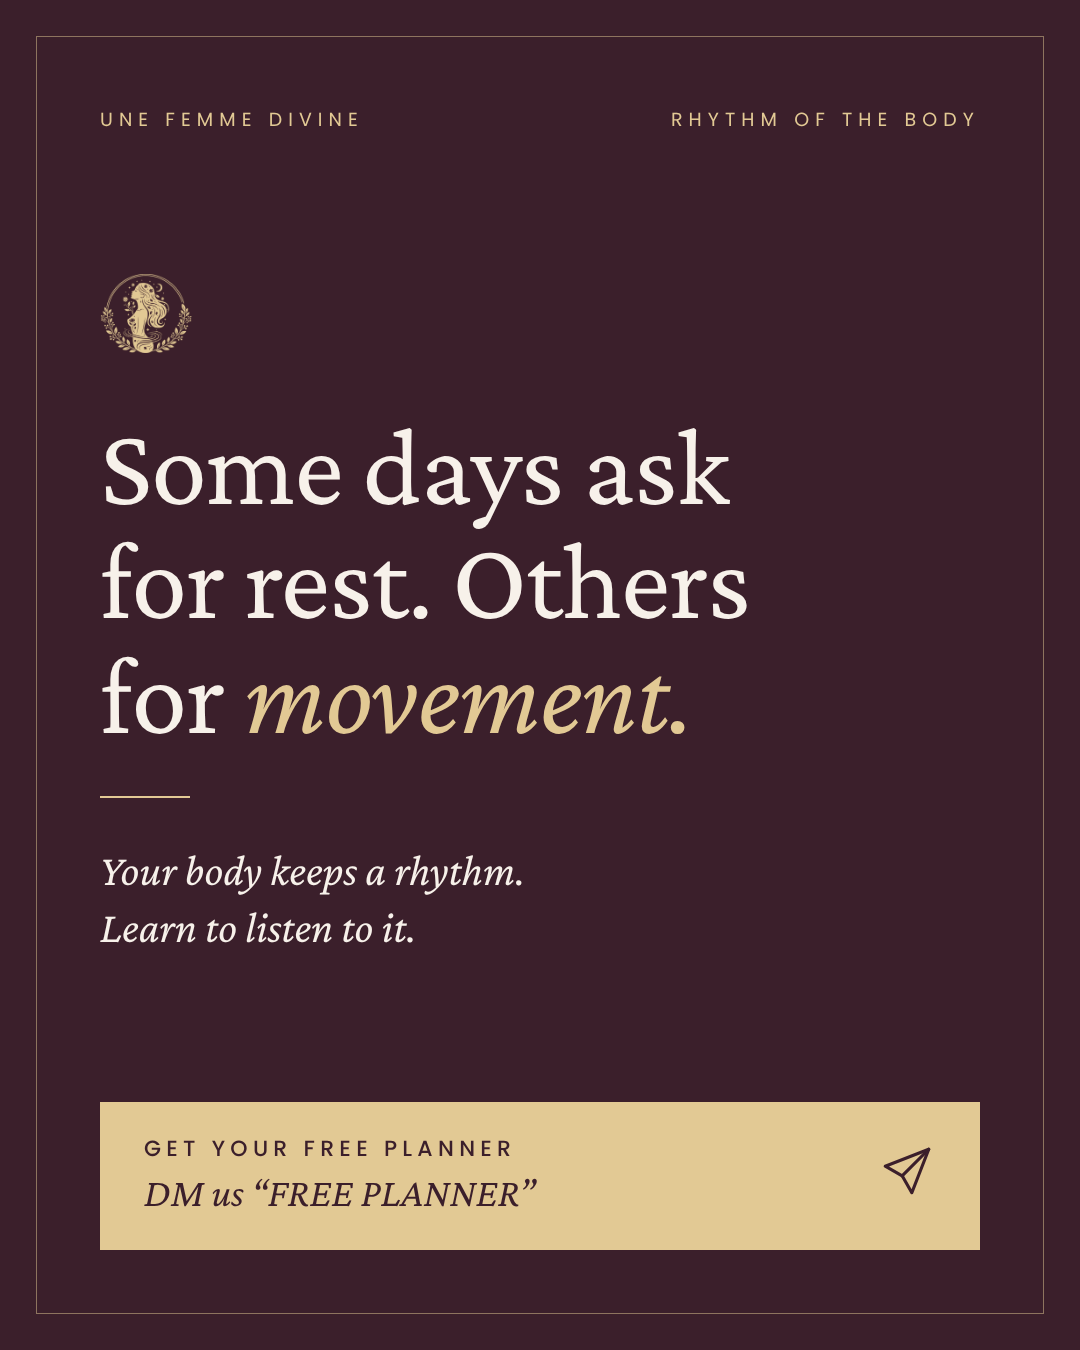
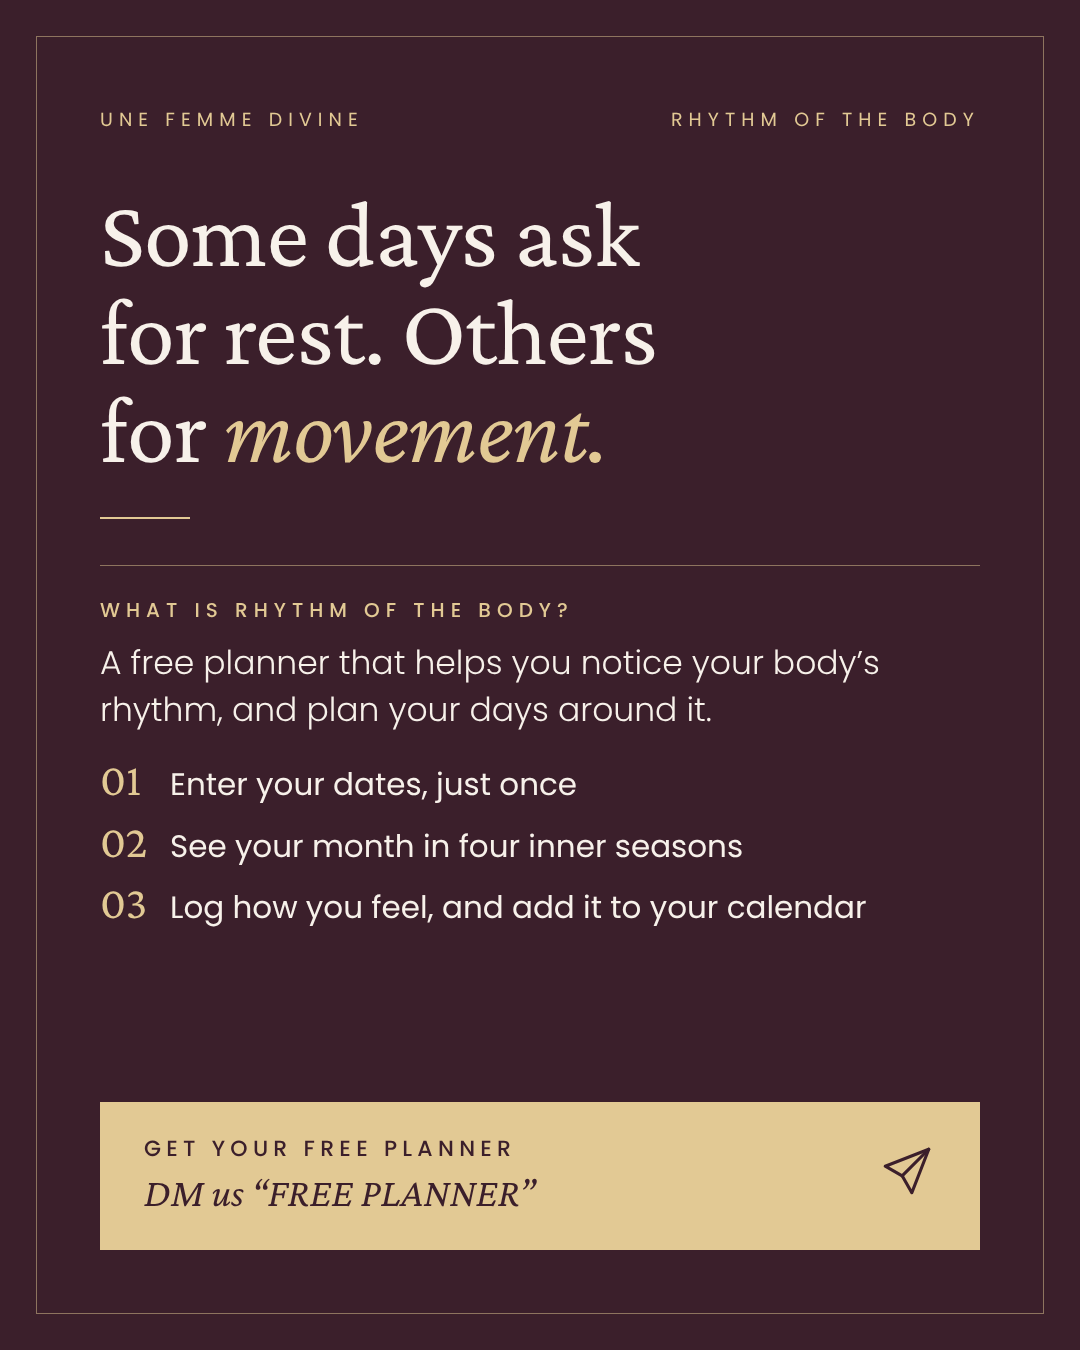
Posts: explain what the planner is, then the call to action
Claude-Session: https://claude.ai/code/session_0135nCpy4YhZtCCbvR9znkRH

Changed region(s): [[0.0917, 0.1556, 0.7944, 0.5911], [0.0917, 0.6222, 0.7944, 0.7156]]

diff --git a/guides/social/posts.html b/guides/social/posts.html
@@ -5,7 +5,7 @@
 <title>Rhythm of the Body: Instagram posts</title>
 <link rel="stylesheet" href="https://fonts.googleapis.com/css2?family=Crimson+Pro:ital,wght@0,400;0,500;1,400;1,500&family=Poppins:wght@300;400;500&display=swap">
 <style>
-:root { --aub: #3B1F2B; --aub2: #4A2A39; --cream: #F7F1EA; --sand: #EFE4D6; --champ: #E2C994; --gold: #B8975A; --bronze: #7B5C47; --rose: #D8A7A0; --mauve: #B79AA6;
+:root { --aub: #3B1F2B; --cream: #F7F1EA; --sand: #EFE4D6; --champ: #E2C994; --gold: #B8975A; --bronze: #7B5C47; --rose: #D8A7A0; --mauve: #B79AA6;
   --serif: 'Crimson Pro', Georgia, serif; --sans: 'Poppins', system-ui, sans-serif; }
 * { box-sizing: border-box; }
 body { margin: 0; background: #888; display: flex; flex-direction: column; gap: 40px; align-items: center; padding: 40px; }
@@ -15,31 +15,35 @@ body { margin: 0; background: #888; display: flex; flex-direction: column; gap: 
 .cream.frame::before, .sand.frame::before { border-color: rgba(184, 151, 90, .6); }
 .top { display: flex; justify-content: space-between; font: 400 19px/1 var(--sans); letter-spacing: .32em; text-transform: uppercase; color: var(--bronze); }
 .dark .top { color: var(--champ); }
-h1 { font: 400 112px/1.02 var(--serif); margin: 0; letter-spacing: -.01em; }
+h1 { font: 400 96px/1.02 var(--serif); margin: 0; letter-spacing: -.01em; }
 h1 i { color: var(--bronze); } .dark h1 i { color: var(--champ); }
-.sub { font: italic 400 44px/1.3 var(--serif); margin: 0; }
-.rule { width: 90px; height: 2px; background: var(--gold); margin: 44px 0; } .dark .rule { background: var(--champ); }
-.lbl { font: 400 20px/1.4 var(--sans); letter-spacing: .3em; text-transform: uppercase; color: var(--bronze); margin: 0 0 20px; } .dark .lbl { color: var(--champ); }
-.body { flex: 1; display: flex; flex-direction: column; justify-content: center; }
+.sub { font: italic 400 40px/1.3 var(--serif); margin: 0; }
+.rule { width: 90px; height: 2px; background: var(--gold); margin: 38px 0; } .dark .rule { background: var(--champ); }
+.lbl { font: 500 20px/1.4 var(--sans); letter-spacing: .3em; text-transform: uppercase; color: var(--bronze); margin: 0 0 16px; } .dark .lbl { color: var(--champ); }
+.body { flex: 1; display: flex; flex-direction: column; justify-content: center; padding-bottom: 44px; }
 .cta { background: var(--champ); color: var(--aub); padding: 34px 44px; display: flex; align-items: center; justify-content: space-between; gap: 30px; }
-.dark .cta { background: var(--champ); }
 .cream .cta, .sand .cta { background: var(--aub); color: var(--cream); }
 .cta b { display: block; font: 500 22px/1.2 var(--sans); letter-spacing: .24em; text-transform: uppercase; margin-bottom: 8px; }
 .cta span { font: italic 400 40px/1.15 var(--serif); }
 .cta .arrow { font: 400 54px/1 var(--serif); }
 .cream .cta .arrow, .sand .cta .arrow { color: var(--champ); }
-.mark { width: 92px; }
-.seasons { display: grid; grid-template-columns: 1fr 1fr; gap: 20px; margin-top: 10px; }
-.seasons div { padding: 38px 36px; min-height: 230px; display: flex; flex-direction: column; justify-content: flex-end; }
-.seasons b { font: 400 62px/1 var(--serif); font-style: italic; }
-.seasons span { font: 400 19px/1.5 var(--sans); letter-spacing: .24em; text-transform: uppercase; margin-top: 10px; }
-.s0 { background: #4A2A39; color: var(--cream); } .s1 { background: var(--champ); } .s2 { background: var(--rose); } .s3 { background: var(--mauve); }
-.cal { background: rgba(247, 241, 234, .06); border: 1px solid rgba(226, 201, 148, .3); padding: 28px 30px; margin-top: 4px; }
-.cal .mo { font: italic 400 46px/1 var(--serif); color: var(--cream); margin-bottom: 22px; display: flex; justify-content: space-between; align-items: baseline; }
+
+/* what the planner is */
+.how { border-top: 1.5px solid rgba(184, 151, 90, .7); padding-top: 30px; margin-top: 8px; }
+.dark .how { border-top-color: rgba(226, 201, 148, .5); }
+.how .intro { font: 300 33px/1.42 var(--sans); margin: 0 0 24px; max-width: 880px; }
+.how ol { list-style: none; margin: 0; padding: 0; display: grid; gap: 14px; }
+.how li { display: grid; grid-template-columns: 70px 1fr; align-items: baseline; font: 400 31px/1.3 var(--sans); }
+.how li b { font: 400 46px/1 var(--serif); color: var(--gold); } .dark .how li b { color: var(--champ); }
+.how.cols ol { grid-template-columns: repeat(3, 1fr); gap: 22px; }
+.how.cols li { grid-template-columns: 1fr; gap: 6px; font-size: 28px; }
+
+.cal { background: rgba(247, 241, 234, .06); border: 1px solid rgba(226, 201, 148, .3); padding: 20px 26px; margin: 0 0 22px; }
+.cal .mo { font: italic 400 40px/1 var(--serif); color: var(--cream); margin-bottom: 16px; display: flex; justify-content: space-between; align-items: baseline; }
 .cal .mo small { font: 400 17px var(--sans); letter-spacing: .26em; text-transform: uppercase; color: var(--champ); font-style: normal; }
-.grid { display: grid; grid-template-columns: repeat(7, 1fr); gap: 8px; }
-.grid i { aspect-ratio: 1.35; display: grid; place-items: center; font: 400 26px var(--sans); font-style: normal; }
-.legend { display: flex; gap: 28px; margin-top: 22px; font: 300 20px var(--sans); color: #E4D6DA; flex-wrap: wrap; }
+.grid { display: grid; grid-template-columns: repeat(7, 1fr); gap: 7px; }
+.grid i { aspect-ratio: 2.6; display: grid; place-items: center; font: 400 25px var(--sans); font-style: normal; }
+.legend { display: flex; gap: 28px; margin-top: 16px; font: 300 21px var(--sans); color: #E4D6DA; flex-wrap: wrap; }
 .legend em { display: inline-block; width: 16px; height: 16px; border-radius: 50%; margin-right: 10px; vertical-align: -1px; font-style: normal; }
 </style>
 </head>
@@ -48,56 +52,63 @@ h1 i { color: var(--bronze); } .dark h1 i { color: var(--champ); }
 <!-- POST 1: general, for every woman -->
 <section class="post dark frame" id="p1">
   <div class="top"><span>Une Femme Divine</span><span>Rhythm of the Body</span></div>
-  <div class="body">
-    <img class="mark" src="../src/assets/mark-gold.png" alt="" style="margin-bottom:56px">
+  <div class="body" style="justify-content:flex-start;padding-top:56px">
     <h1>Some days ask<br>for rest. Others<br>for <i>movement.</i></h1>
     <div class="rule"></div>
-    <p class="sub">Your body keeps a rhythm.<br>Learn to listen to it.</p>
-  </div>
-  <div class="cta"><div><b>Free planner</b><span>Join our email list to get yours</span></div><div class="arrow">&rarr;</div></div>
-</section>
-
-<!-- POST 2: period-aware -->
-<section class="post cream frame" id="p2">
-  <div class="top"><span>Inner winter</span><span>The start of your cycle</span></div>
-  <div class="body">
-    <p class="lbl">Rest</p>
-    <h1>Rest is not a<br>pause in your life.<br><i>It is part of it.</i></h1>
-    <div class="rule"></div>
-    <p class="sub" style="max-width:760px">Warm cups. An early night.<br>One less thing on the list.</p>
-  </div>
-  <div class="cta"><div><b>Free planner</b><span>See your month in four inner seasons</span></div><div class="arrow">&rarr;</div></div>
-</section>
-
-<!-- POST 3: general, four seasons -->
-<section class="post sand frame" id="p3">
-  <div class="top"><span>Une Femme Divine</span><span>Rhythm of the Body</span></div>
-  <div class="body" style="justify-content:flex-start;padding-top:60px">
-    <h1 style="font-size:104px">Four seasons.<br><i>One body.</i></h1>
-    <div class="rule" style="margin:36px 0"></div>
-    <div class="seasons">
-      <div class="s0"><b>Rest</b><span>Inner winter</span></div>
-      <div class="s1"><b>Rise</b><span>Inner spring</span></div>
-      <div class="s2"><b>Bloom</b><span>Inner summer</span></div>
-      <div class="s3"><b>Restore</b><span>Inner autumn</span></div>
+    <div class="how">
+      <p class="lbl">What is Rhythm of the Body?</p>
+      <p class="intro">A free planner that helps you notice your body&rsquo;s rhythm, and plan your days around it.</p>
+      <ol>
+        <li><b>01</b><span>Enter your dates, just once</span></li>
+        <li><b>02</b><span>See your month in four inner seasons</span></li>
+        <li><b>03</b><span>Log how you feel, and add it to your calendar</span></li>
+      </ol>
     </div>
   </div>
-  <div class="cta"><div><b>Free planner</b><span>Join our email list to get yours</span></div><div class="arrow">&rarr;</div></div>
+  <div class="cta"><div><b>Get your free planner</b><span>Join our email list</span></div><div class="arrow">&rarr;</div></div>
 </section>
 
-<!-- POST 4: period-aware, shows the product -->
-<section class="post dark frame" id="p4">
+<!-- POST 2: cycle-aware -->
+<section class="post cream frame" id="p2">
+  <div class="top"><span>Inner winter</span><span>The start of your cycle</span></div>
+  <div class="body" style="justify-content:flex-start;padding-top:50px">
+    <h1 style="font-size:84px">Rest is not a<br>pause in your life.<br><i>It is part of it.</i></h1>
+    <div class="rule" style="margin:26px 0"></div>
+    <p class="sub" style="margin-bottom:28px;font-size:36px">Warm cups. An early night.<br>One less thing on the list.</p>
+    <div class="how">
+      <p class="lbl">What is Rhythm of the Body?</p>
+      <p class="intro">A free planner that turns your cycle into four inner seasons, each with gentle ideas for rest, movement and ritual.</p>
+      <ol>
+        <li><b>01</b><span>Rest, Rise, Bloom, Restore</span></li>
+        <li><b>02</b><span>Log your energy and mood, privately</span></li>
+        <li><b>03</b><span>Add your seasons to your calendar</span></li>
+      </ol>
+    </div>
+  </div>
+  <div class="cta"><div><b>Get your free planner</b><span>Join our email list</span></div><div class="arrow">&rarr;</div></div>
+</section>
+
+<!-- POST 3: shows the planner -->
+<section class="post dark frame" id="p3">
   <div class="top"><span>Day 1 is where it begins</span><span>Rhythm of the Body</span></div>
-  <div class="body" style="justify-content:flex-start;padding-top:20px">
-    <h1 style="font-size:88px">Start from the<br>first day of<br>your <i>cycle.</i></h1>
-    <p class="sub" style="margin:26px 0 24px;font-size:38px">Your month becomes four seasons.</p>
+  <div class="body" style="justify-content:flex-start;padding-top:36px">
+    <h1 style="font-size:74px">Start from the<br>first day of<br>your <i>cycle.</i></h1>
+    <p class="sub" style="margin:16px 0 20px;font-size:34px">Your month becomes four seasons.</p>
     <div class="cal">
       <div class="mo"><span>November</span><small>Day 10 &middot; Rise</small></div>
       <div class="grid" id="grid"></div>
       <div class="legend"><span><em style="background:#4A2A39;border:1px solid #E2C994"></em>Rest</span><span><em style="background:#E2C994"></em>Rise</span><span><em style="background:#D8A7A0"></em>Bloom</span><span><em style="background:#B79AA6"></em>Restore</span></div>
     </div>
+    <div class="how cols">
+      <p class="lbl">How the free planner works</p>
+      <ol>
+        <li><b>01</b><span>Enter your dates</span></li>
+        <li><b>02</b><span>See your seasons</span></li>
+        <li><b>03</b><span>Log it, add it to your calendar</span></li>
+      </ol>
+    </div>
   </div>
-  <div class="cta"><div><b>Free planner</b><span>Join our email list to get yours</span></div><div class="arrow">&rarr;</div></div>
+  <div class="cta"><div><b>Get your free planner</b><span>Join our email list</span></div><div class="arrow">&rarr;</div></div>
 </section>
 
 <script>
